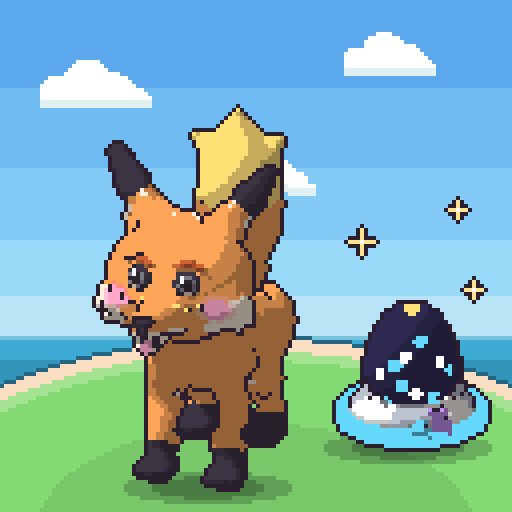
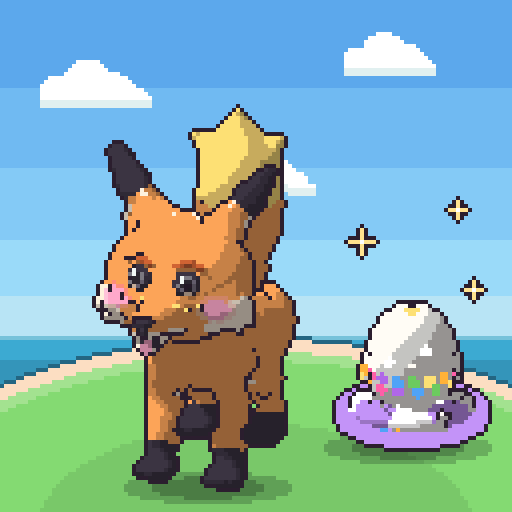
Thumbnails again: the eternal egg's hatch, 154 kinds, the rock round the town
The six thumbnails and the icon drawn again after the whole-island change and the new
egg tiers: the hatch scene is the Eternal egg's now, the collection's islet has an ancient
and an eternal egg, the count reads 154, and a sixth thumbnail shows a Grand Isle's town in
its open ground with the rock all round it ("Clear the rocks to grow your island").

Claude-Session: https://claude.ai/code/session_01MB1RUFKET2ZiukLybtpPJi

Changed region(s): [[0.6562, 0.5938, 0.9688, 0.875]]

diff --git a/tools/README.md b/tools/README.md
@@ -166,7 +166,7 @@ clipped every label and hid the overflow players saw).
 | `pportraits_try` | `pportraits_sheet` | one driftling of each body plan at the chosen angle, to try a change before baking them all (`python3 tools/preview/gen_portraits.py <log> --no-out --raw --sheet <png>`) |
 | `cthumbs` | (none) | the cosmetics' pictures drawn from the pieces' models (`cosmetic_thumbs.luau`: every piece in `Data/Cosmetics` from `WearModels.piece` alone, a top on a little body in its colours, turned 25 degrees toward the camera, a back piece 205 so its back shows, a part thinner than a sixteenth of the piece's span made that thick so a stick keeps a pixel; through `Pixel/Snapshot` on canvases of 24 to 28 px), logged as `@@THUMB` lines like `pthumbs`; `cthumbs=<k>of<n>`, `cthumbs=<id>,<id>`. Run it through `sh tools/preview/cosmetic_thumbs.sh [outdir]` (about 8 s for the 276 pieces), which tidies them into `scripts/cosmetic_thumbs.txt` (`gen_thumbs.py --cosmetics`) and remakes `src/client/UI/CosmeticThumbData.luau` ("look_<id>", `scripts/gen_art.py`), keeping `sheet.png` and `raw.png` in `outdir`. Run it again after a piece's model changes (`Models/CosmeticModels`) |
 | `picons` | (none) | the game passes' and developer products' icons' subjects (`product_icons.luau`): the rarity eggs in their nests, three eggs, the starter pack's eggs on shells, the Golden Crown, the Tree of Life, the Hatchery, the Snack Stall, the fountain and a founder dozing, through `Pixel/Snapshot` at 42 to 48 px, logged as `@@ICON` lines; `picons=<id>,<id>`. Run it through `sh tools/preview/product_icons.sh [outdir]` (a few seconds), which lays them on their badges (`product_icons.py`: a round badge for a pass, as Roblox cuts passes to a circle, a rounded square for a product; a sunburst whose ray edges step evenly, the words in the big pixel face, a clock, arrows, a bolt, a moon, a ticket, a shell) and writes the 512 x 512 PNGs to upload into `art/products/<key>.png` (Config/Monetization's keys), keeping `sheet.png` in `outdir`. Run it again after changing a model an icon shows |
-| `gthumbs`, `gthumbs=<shot>,<shot>`, `gthumbs=hatch`, `gthumbs=lawn`, `gthumbs=cast`, `gthumbs=cast:<id>@<t>,<id>` | `gth_tree`, `gth_tree_near`, `gth_town` (`gth_crowd` with `crowd`); `gth_hatch_egg`, `gth_hatch_blaze`, `gth_hatch_out`, `gth_hatch_reveal`; `gth_lawn` | the game's thumbnails' and icon's pictures (`game_thumbs.luau`; the request of 2026-11-20, "could you make thumbnails that are engaging and show the gameplay well, along with an icon? use creature models, dont need to show the player"): a decorated tier 8 town (`showcase.luau`) in a sunny spell with the rarest eggs under the Tree of Life, the HUD off and the founder parked out of every frame, the view put on each shot with `CameraController.setFocus` at a zoom notch; the hatch scene for the rarest egg with no mutations (no cards beside it); a round islet far from the others with twenty driftlings cheering on it and two rare eggs, framed by a stage view; and the cast, driftlings (and the rarest egg) drawn alone through `Pixel/Snapshot` mid-cheer, logged as `@@GTH` lines with the count of kinds (`cast:<id>@<t>` draws those at 64 px, `t` the cheer's time, to pick a pose with the eyes open). Run it through `sh tools/preview/game_thumbs.sh [outdir]` (about 2 minutes: four runs at once), which reads the frames back onto the art grid, lays the cast over them with shadows, the title (the BIG face doubled again, `HUGE`) and the captions (`game_thumbs.py`), and writes `art/thumbnails/thumb_1_title.png` .. `thumb_5_eggs.png` (1920 x 1080) and `icon.png` (512 x 512), keeping `sheet.png` in `outdir` |
+| `gthumbs`, `gthumbs=<shot>,<shot>`, `gthumbs=hatch`, `gthumbs=lawn`, `gthumbs=rocks`, `gthumbs=cast`, `gthumbs=cast:<id>@<t>,<id>` | `gth_tree`, `gth_tree_near`, `gth_town` (`gth_crowd` with `crowd`); `gth_hatch_egg`, `gth_hatch_blaze`, `gth_hatch_out`, `gth_hatch_reveal`; `gth_lawn` | the game's thumbnails' and icon's pictures (`game_thumbs.luau`; the request of 2026-11-20, "could you make thumbnails that are engaging and show the gameplay well, along with an icon? use creature models, dont need to show the player"): a decorated tier 8 town (`showcase.luau`) in a sunny spell with the rarest eggs under the Tree of Life, the HUD off and the founder parked out of every frame, the view put on each shot with `CameraController.setFocus` at a zoom notch; the hatch scene for the rarest egg with no mutations (no cards beside it); a round islet far from the others with twenty driftlings cheering on it and two rare eggs, framed by a stage view; and the cast, driftlings (and the rarest egg) drawn alone through `Pixel/Snapshot` mid-cheer, logged as `@@GTH` lines with the count of kinds (`cast:<id>@<t>` draws those at 64 px, `t` the cheer's time, to pick a pose with the eyes open). Run it through `sh tools/preview/game_thumbs.sh [outdir]` (about 2 minutes: four runs at once), which reads the frames back onto the art grid, lays the cast over them with shadows, the title (the BIG face doubled again, `HUGE`) and the captions (`game_thumbs.py`), and writes `art/thumbnails/thumb_1_title.png` .. `thumb_6_rocks.png` (1920 x 1080) and `icon.png` (512 x 512), keeping `sheet.png` in `outdir`; `gthumbs=rocks`: a Grand Isle's town in its open ground with the rock round it, `gth_rocks` |
 | `pthumbs` | (none) | the build catalog's pictures drawn from the pieces' models (`thumbs.luau`: every piece in `Data/Buildings` but the Tree of Life, built by `DecorModels.build` at lvl 1 and drawn through `Pixel/Snapshot` from the world's camera, yaw 45 and pitch 30, fitted to 24 x 24 with 1 px for the outline; a path or water tile as a 2 x 2 block (the water's lvl from its neighbours, as in the world, so the banks run round the block), a fence as a corner (rot 0 and rot 90 from one post), a piece that stands over water on a stream two tiles wide, a floating one on a pond a stud wider all round; each on canvases of 24 to 28 px, each at its own scale), logged as `@@THUMB <id>@<canvas> <w> <h> <RGBA hex>` lines; `pthumbs=<k>of<n>` draws every n-th piece from the k-th, `pthumbs=<id>,<id>` those pieces (to try a change: `python3 tools/preview/gen_thumbs.py <log> --no-out --raw-sheet <png>`). Run it through `sh tools/preview/thumbs.sh [outdir]` (about 8 s for the 245 pieces: four runs at once, `THUMB_RUNS`), which keeps the biggest drawing of each piece that fits the square, tidies them like the portraits into `scripts/thumbs.txt` (`gen_thumbs.py`: a 1 px pole and a tile's points kept, gaps between pickets left open) and remakes `src/client/UI/ThumbData.luau` (`scripts/gen_art.py`), keeping `sheet.png` (every picture at 6x on the panels' brown) and `raw.png` (each as drawn beside its tidied one) in `outdir`. Run it again after a piece's model changes |
 | `all` | | `island`, `village`, `island3`, `sea`, `build`, `day` |
 
